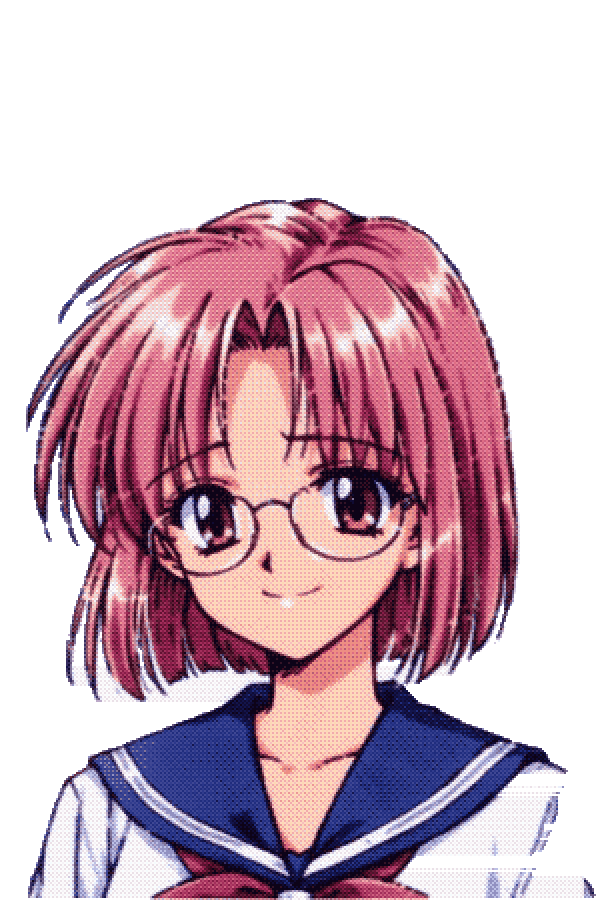
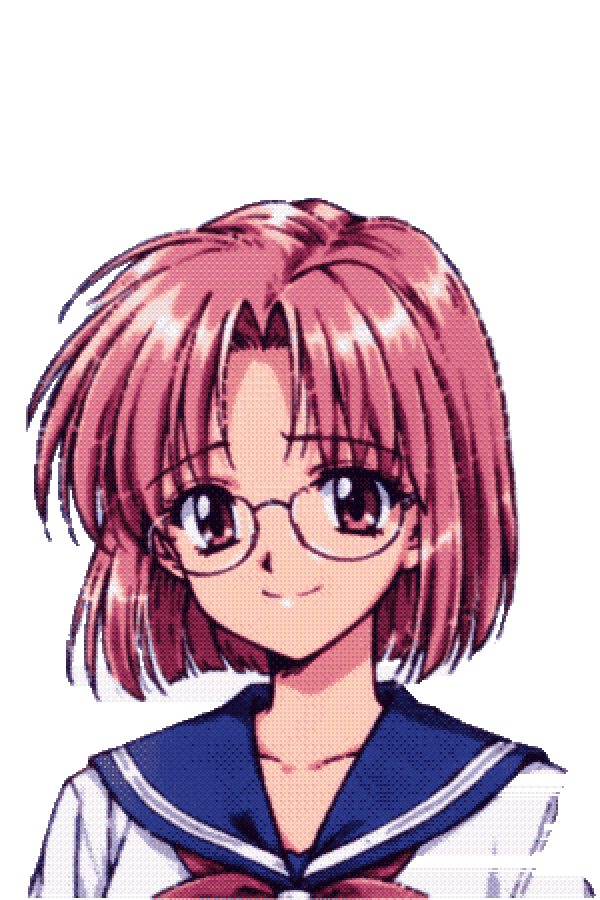
feat(op): #79 OP品質P0—キャラOPドット化・構図修正・ロゴ統一
- tools/op_assets.py: reduce_colors を半解像度 Bayer(ORDERED)+2x Nearest の
  2pxブロック調へ（背景プレートと同一密度。絵コンテ §6ルール4 の未着手分）
  dotify_backs() で ComfyUI 由来の後ろ姿も同処理。chars 16点再生成
- CUT04: im.Tile+size が右端に縦黒帯（t_op_04 実測 x>547 黒）→ Image 単板に
  置換で全域覆い。円を中央基準(110)へ
- CUT06: 冬華 pos(150,40)z1.2→(185,60)z1.12 で髪切れ解消。風ラインは
  不透明直線3本→半透明+傾き2本（傷見え対策）
- CUT11: op_bounce に y 引数。スプライト実測(目線 band m:249 t:239)から
  冬華 y=60 で頭高さを揃える
- CUT03/13: Text ロゴ→gui/title_logo.png（#56 のタイトル実ロゴと統一）

diff --git a/tools/op_assets.py b/tools/op_assets.py
@@ -26,13 +26,31 @@ def render(svg, w, h):
 
 
 def reduce_colors(im, colors, dither):
-    """RGBA を減色する。アルファは 2 値化（ドット絵の縁にする）。"""
+    """RGBA を減色する。アルファは 2 値化（ドット絵の縁にする）。
+
+    #79: 背景プレート（320x240 を 2 倍 Nearest）と同じドット密度へ揃えるため、
+    半解像度で Bayer 固定ディザ量子化 → 2 倍 Nearest 拡大の 2px ブロック調にする。
+    （旧: 全解像度 Floyd-Steinberg。背景との密度差が絵コンテ §6 ルール4 の未完部分だった）
+    """
     a = np.asarray(im.getchannel("A"))
-    rgb = im.convert("RGB").quantize(colors=colors, method=Image.Quantize.MEDIANCUT,
-                                     dither=Image.Dither.FLOYDSTEINBERG if dither else Image.Dither.NONE).convert("RGB")
-    out = rgb.convert("RGBA")
+    if dither:
+        d = getattr(Image.Dither, "BAYER", None) or Image.Dither.ORDERED  # BAYER は Pillow 10.1 以降の別名（古いは ORDERED）
+        small = im.resize((max(1, im.width // 2), max(1, im.height // 2)), Image.LANCZOS)
+        rgb = small.convert("RGB").quantize(colors=colors, method=Image.Quantize.MEDIANCUT,
+                                            dither=d).convert("RGB")
+        out = rgb.resize(im.size, Image.NEAREST).convert("RGBA")
+    else:
+        out = im.convert("RGB").quantize(colors=colors, method=Image.Quantize.MEDIANCUT,
+                                         dither=Image.Dither.NONE).convert("RGB").convert("RGBA")
     out.putalpha(Image.fromarray(np.where(a >= 128, 255, 0).astype(np.uint8)))
     return out
+
+
+def dotify_existing(name, colors):
+    """再生成不可（ComfyUI 由来）な既存 PNG に同じ 2px ブロック調を後処理で適用する。"""
+    path = os.path.join(OUT, name)
+    im = Image.open(path).convert("RGBA")
+    save(reduce_colors(im, colors, True), name)
 
 
 def save(im, name):
@@ -85,6 +103,14 @@ def backs():
     raise SystemExit("後ろ姿は python -m tools.char_back install misaki|touka で作る")
 
 
+def dotify_backs():
+    """#79: 後ろ姿（ComfyUI 由来で再生成不可）を背景と同じ 2px ブロック調へ後処理。
+    2 回適用しても視差はほぼ出ない（半解像度 LANCZOS で旧ノイズが消えるため）。
+    char_back.py で作り直したら再度実行すること。"""
+    for name, n in (("chars/misaki_back.png", 48), ("chars/touka_back.png", 40)):
+        dotify_existing(name, n)
+
+
 def glow():
     n = 400
     yy, xx = np.mgrid[0:n, 0:n]
@@ -104,4 +130,5 @@ if __name__ == "__main__":
     # 後ろ姿は tools/char_back.py。ここでは glow だけ再生成しても害がない
     misaki()
     touka()
+    dotify_backs()
     glow()
